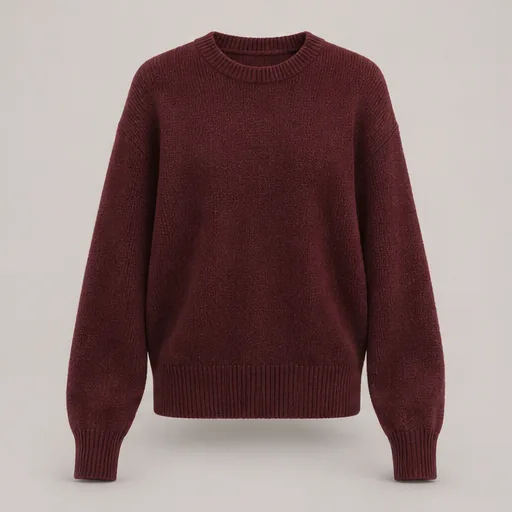
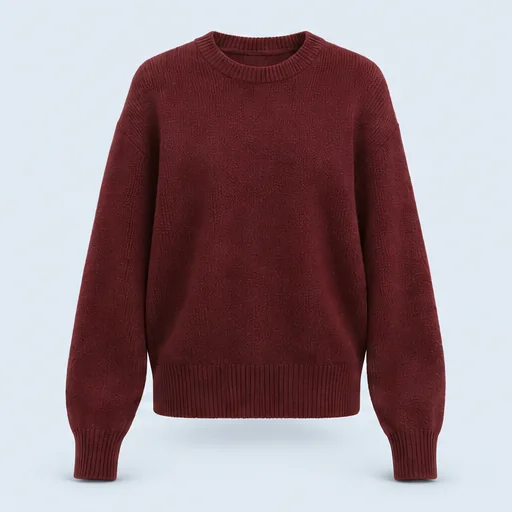
Armonizar los fondos del catálogo con la paleta azul

diff --git a/index.html b/index.html
@@ -10,9 +10,9 @@
   <link rel="preconnect" href="https://fonts.googleapis.com">
   <link rel="preconnect" href="https://fonts.gstatic.com" crossorigin>
   <link rel="stylesheet" href="https://fonts.googleapis.com/css2?family=Archivo+Narrow:wght@500;600;700&amp;family=DM+Sans:wght@400;500;600;700&amp;display=swap">
-  <link rel="stylesheet" href="estilos.css?v=ntt-bata">
+  <link rel="stylesheet" href="estilos.css?v=fondo-azul">
   <link rel="stylesheet" href="operaciones.css?v=ntt-bata">
-  <script defer src="modelo.js"></script>
+  <script defer src="modelo.js?v=fondo-azul"></script>
   <script defer src="qr.js"></script>
   <script defer src="lector-qr.js"></script>
   <script defer src="operaciones.js"></script>

diff --git a/estilos.css b/estilos.css
@@ -128,7 +128,7 @@ body[data-role]:not([data-role="cliente"]) .bag-button { visibility: hidden; }
 .product-grid { display: grid; grid-template-columns: repeat(3, minmax(0, 1fr)); gap: 2.2rem 1.2rem; }
 .product { min-width: 0; position: relative; }
 .product-media {
-  display: block; width: 100%; border: 0; padding: 0; background: #e5e9eb; overflow: hidden; position: relative;
+  display: block; width: 100%; border: 0; padding: 0; background: var(--tint); overflow: hidden; position: relative;
 }
 .product-media img { width: 100%; height: auto; aspect-ratio: 1; object-fit: cover; transition: transform 260ms var(--ease-out); }
 .product-media .promo { position: absolute; top: .75rem; left: .75rem; }

diff --git a/modelo.js b/modelo.js
@@ -25,7 +25,7 @@
     { id: 'bolso', name: 'Bolso Lúa', category: 'Accesorios', description: 'Bolso al hombro con cierre de cremallera y bolsillo interior.', price: 34.90, tone: '#d6c5af', colors: ['Negro', 'Cacao'], sizes: ['Única'] },
   ].map((product, productIndex) => ({
     ...product,
-    image: `img/${product.id}.webp`,
+    image: `img/${product.id}.webp?v=fondo-azul`,
     variants: product.colors.flatMap((color, colorIndex) => product.sizes.map((size, sizeIndex) => ({
       color,
       size,
